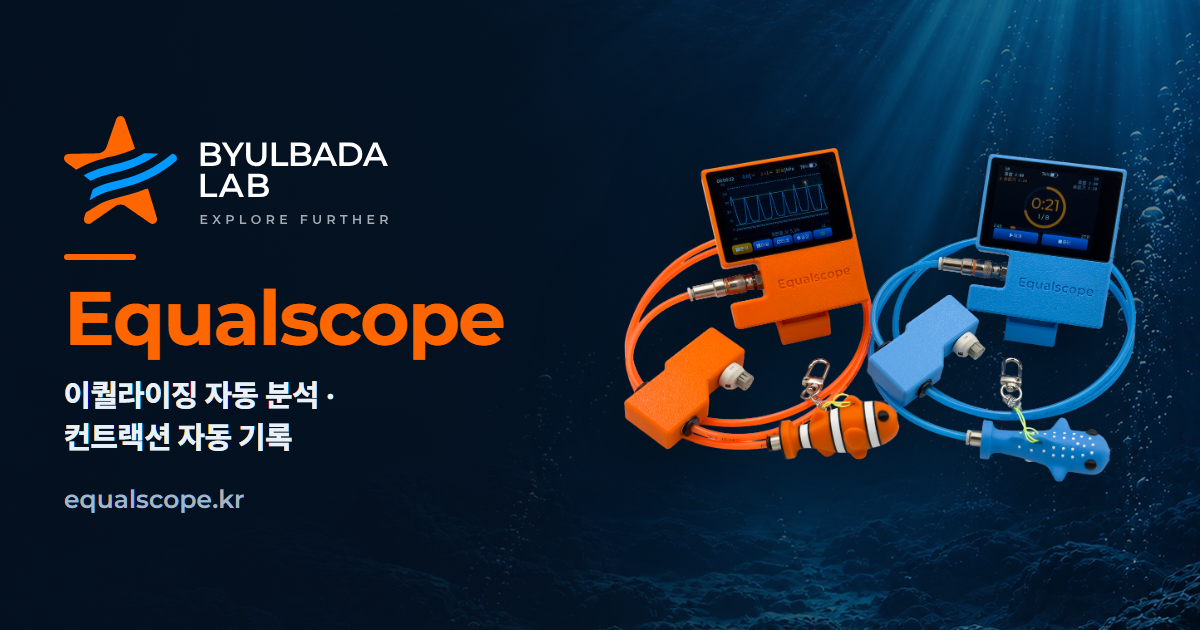
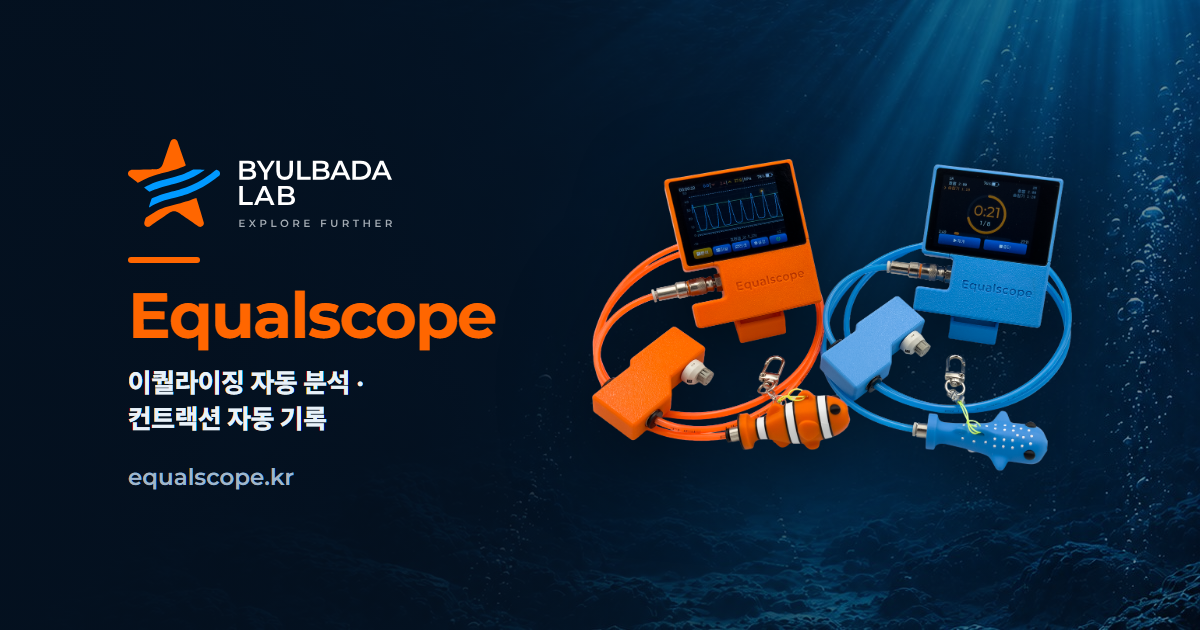
docs: 공유 미리보기 문구·여백 손질, 영문 head 정리
- og-image 양쪽 여백 118px (네이버 카페에서 좌우가 잘려 글자가 떨어졌다)
- 미리보기 제목·설명을 새 포지셔닝으로 (한·영)
- 영문 페이지 head 에 끼어 있던 한글 head 덩어리 제거

diff --git a/en/index.html b/en/index.html
@@ -3,8 +3,8 @@
 <head>
 <meta charset="utf-8">
 <meta name="viewport" content="width=device-width, initial-scale=1">
-<title>Equalscope — Freediving Equalization &amp; Breathing Trainer with Contraction Detection</title>
-<meta name="description" content="Equalscope is a standalone freediving equalization trainer. See your mouth pressure as a live graph, record every session, and get automatic pattern analysis. Breath-hold tables with voice guidance, and it counts your contractions — no phone or app required.">
+<title>Equalscope — Automatic Equalization Analysis &amp; Contraction Logging</title>
+<meta name="description" content="See your equalization as a live graph and get told what to fix. Contractions are detected and logged on their own. CO₂/O₂ table training with voice guidance — one device, no phone.">
 <meta name="author" content="BYULBADA LAB">
 <link rel="canonical" href="https://equalscope.kr/en/">
 <link rel="alternate" hreflang="ko" href="https://equalscope.kr/">
@@ -17,54 +17,21 @@
 
 <link rel="preconnect" href="https://cdn.jsdelivr.net" crossorigin>
 <link rel="stylesheet" as="style" crossorigin href="https://cdn.jsdelivr.net/gh/orioncactus/pretendard@v1.3.9/dist/web/static/pretendard-dynamic-subset.css">
+
 <meta property="og:type" content="website">
 <meta property="og:site_name" content="Equalscope">
 <meta property="og:locale" content="en_US">
 <meta property="og:locale:alternate" content="ko_KR">
 <meta property="og:url" content="https://equalscope.kr/en/">
-<meta property="og:title" content="Equalscope — Freediving Equalization Training Device">
-<meta property="og:description" content="See your equalization as a live graph. Record, analyse and compare every session — standalone, no phone required.">
+<meta property="og:title" content="Equalscope — Automatic Equalization Analysis &amp; Contraction Logging">
+<meta property="og:description" content="See your equalization as a live graph and get told what to fix. Contractions are detected and logged on their own. CO₂/O₂ table training with voice guidance — one device, no phone.">
 <meta property="og:image" content="https://equalscope.kr/assets/brand/og-image.png?v=4">
 <meta property="og:image:width" content="1200">
 <meta property="og:image:height" content="630">
 <meta name="twitter:card" content="summary_large_image">
-<meta name="twitter:title" content="Equalscope — Freediving Equalization Training Device">
-<meta name="twitter:description" content="See your equalization as a live graph. Record, analyse and compare every session — standalone, no phone required.">
+<meta name="twitter:title" content="Equalscope — Automatic Equalization Analysis &amp; Contraction Logging">
+<meta name="twitter:description" content="See your equalization as a live graph and get told what to fix. Contractions are detected and logged on their own. CO₂/O₂ table training with voice guidance — one device, no phone.">
 <meta name="twitter:image" content="https://equalscope.kr/assets/brand/og-image.png?v=4">
-
-<style>
-
- -->
-
-<meta property="og:type" content="website">
-<meta property="og:site_name" content="Equalscope">
-<meta property="og:locale" content="ko_KR">
-<meta property="og:url" content="https://equalscope.kr/">
-<meta property="og:title" content="Equalscope — 올인원 이퀄라이징 + CO₂·O₂ 호흡 훈련">
-<meta property="og:description" content="프리다이빙 올인원 드라이 트레이닝 장비 Equalscope — 이퀄라이징과 호흡 훈련을 한 대로. 압력은 실시간으로 측정·분석하고, CO2·O2 테이블 훈련은 음성으로 안내하고, 컨트랙션까지 자동으로 감지·기록합니다. 스마트폰도 앱도 없이.">
-<meta property="og:image" content="https://equalscope.kr/assets/brand/og-image.png?v=4">
-<meta property="og:image:width" content="1200">
-<meta property="og:image:height" content="630">
-
-<meta name="twitter:card" content="summary_large_image">
-<meta name="twitter:title" content="Equalscope — 올인원 이퀄라이징 + CO₂·O₂ 호흡 훈련">
-<meta name="twitter:description" content="프리다이빙 올인원 드라이 트레이닝 장비 Equalscope — 이퀄라이징과 호흡 훈련을 한 대로. 압력은 실시간으로 측정·분석하고, CO2·O2 테이블 훈련은 음성으로 안내하고, 컨트랙션까지 자동으로 감지·기록합니다. 스마트폰도 앱도 없이.">
-<meta name="twitter:image" content="https://equalscope.kr/assets/brand/og-image.png?v=4">
-
-<meta name="naver-site-verification" content="4cf0443c242118974b7d7512e05f9646a6355761">
-
-<meta name="google-site-verification" content="9SlrovquUZbFsBGo_JJVQIfB0P_6ciK_eZ1Lq7Nz8dQ">
-
-<script type="application/ld+json">
-{
-  "@context":"https://schema.org",
-  "@graph":[
-    {"@type":"Organization","@id":"https://equalscope.kr/#org","name":"Equalscope","alternateName":"별바다랩","url":"https://equalscope.kr/","logo":"https://equalscope.kr/favicon.svg"},
-    {"@type":"WebSite","@id":"https://equalscope.kr/#website","url":"https://equalscope.kr/","name":"Equalscope","inLanguage":"ko","publisher":{"@id":"https://equalscope.kr/#org"}},
-    {"@type":"Product","name":"Equalscope","description":"프리다이빙 이퀄라이징 압력을 실시간으로 측정·분석하고, CO2·O2 테이블 호흡 훈련을 음성 안내로 진행·기록하는 드라이 트레이닝 장비.","image":"https://equalscope.kr/assets/hero-both.jpg","brand":{"@id":"https://equalscope.kr/#org"},"offers":{"@type":"Offer","url":"https://equalscope.kr/","priceCurrency":"KRW","price":"239000","priceValidUntil":"2026-12-31","availability":"https://schema.org/OutOfStock"}}
-  ]
-}
-</script>
 
 <style>
 

diff --git a/index.html b/index.html
@@ -3,8 +3,8 @@
 <head>
 <meta charset="utf-8">
 <meta name="viewport" content="width=device-width, initial-scale=1">
-<title>Equalscope — 올인원 이퀄라이징 + CO₂·O₂ 호흡 훈련 · 컨트랙션 감지</title>
-<meta name="description" content="프리다이빙 올인원 드라이 트레이닝 장비 Equalscope — 이퀄라이징과 호흡 훈련을 한 대로. 압력은 실시간으로 측정·분석하고, CO2·O2 테이블 훈련은 음성으로 안내하고, 컨트랙션까지 자동으로 감지·기록합니다. 스마트폰도 앱도 없이.">
+<title>Equalscope — 이퀄라이징 자동 분석 · 컨트랙션 자동 기록</title>
+<meta name="description" content="감으로 하던 이퀄라이징을 눈으로 보고 분석까지, 직접 체크하던 컨트랙션을 그래프와 자동 기록으로. CO₂·O₂ 테이블 음성 훈련까지, 스마트폰 없이 한 대로.">
 <meta name="author" content="별바다랩 (Byulbada Lab)">
 <link rel="canonical" href="https://equalscope.kr/">
 <link rel="alternate" hreflang="ko" href="https://equalscope.kr/">
@@ -38,15 +38,15 @@
 <meta property="og:site_name" content="Equalscope">
 <meta property="og:locale" content="ko_KR">
 <meta property="og:url" content="https://equalscope.kr/">
-<meta property="og:title" content="Equalscope — 올인원 이퀄라이징 + CO₂·O₂ 호흡 훈련">
-<meta property="og:description" content="프리다이빙 올인원 드라이 트레이닝 장비 Equalscope — 이퀄라이징과 호흡 훈련을 한 대로. 압력은 실시간으로 측정·분석하고, CO2·O2 테이블 훈련은 음성으로 안내하고, 컨트랙션까지 자동으로 감지·기록합니다. 스마트폰도 앱도 없이.">
+<meta property="og:title" content="Equalscope — 이퀄라이징 자동 분석 · 컨트랙션 자동 기록">
+<meta property="og:description" content="감으로 하던 이퀄라이징을 눈으로 보고 분석까지, 직접 체크하던 컨트랙션을 그래프와 자동 기록으로. CO₂·O₂ 테이블 음성 훈련까지, 스마트폰 없이 한 대로.">
 <meta property="og:image" content="https://equalscope.kr/assets/brand/og-image.png?v=4">
 <meta property="og:image:width" content="1200">
 <meta property="og:image:height" content="630">
 
 <meta name="twitter:card" content="summary_large_image">
-<meta name="twitter:title" content="Equalscope — 올인원 이퀄라이징 + CO₂·O₂ 호흡 훈련">
-<meta name="twitter:description" content="프리다이빙 올인원 드라이 트레이닝 장비 Equalscope — 이퀄라이징과 호흡 훈련을 한 대로. 압력은 실시간으로 측정·분석하고, CO2·O2 테이블 훈련은 음성으로 안내하고, 컨트랙션까지 자동으로 감지·기록합니다. 스마트폰도 앱도 없이.">
+<meta name="twitter:title" content="Equalscope — 이퀄라이징 자동 분석 · 컨트랙션 자동 기록">
+<meta name="twitter:description" content="감으로 하던 이퀄라이징을 눈으로 보고 분석까지, 직접 체크하던 컨트랙션을 그래프와 자동 기록으로. CO₂·O₂ 테이블 음성 훈련까지, 스마트폰 없이 한 대로.">
 <meta name="twitter:image" content="https://equalscope.kr/assets/brand/og-image.png?v=4">
 
 <meta name="naver-site-verification" content="4cf0443c242118974b7d7512e05f9646a6355761">
